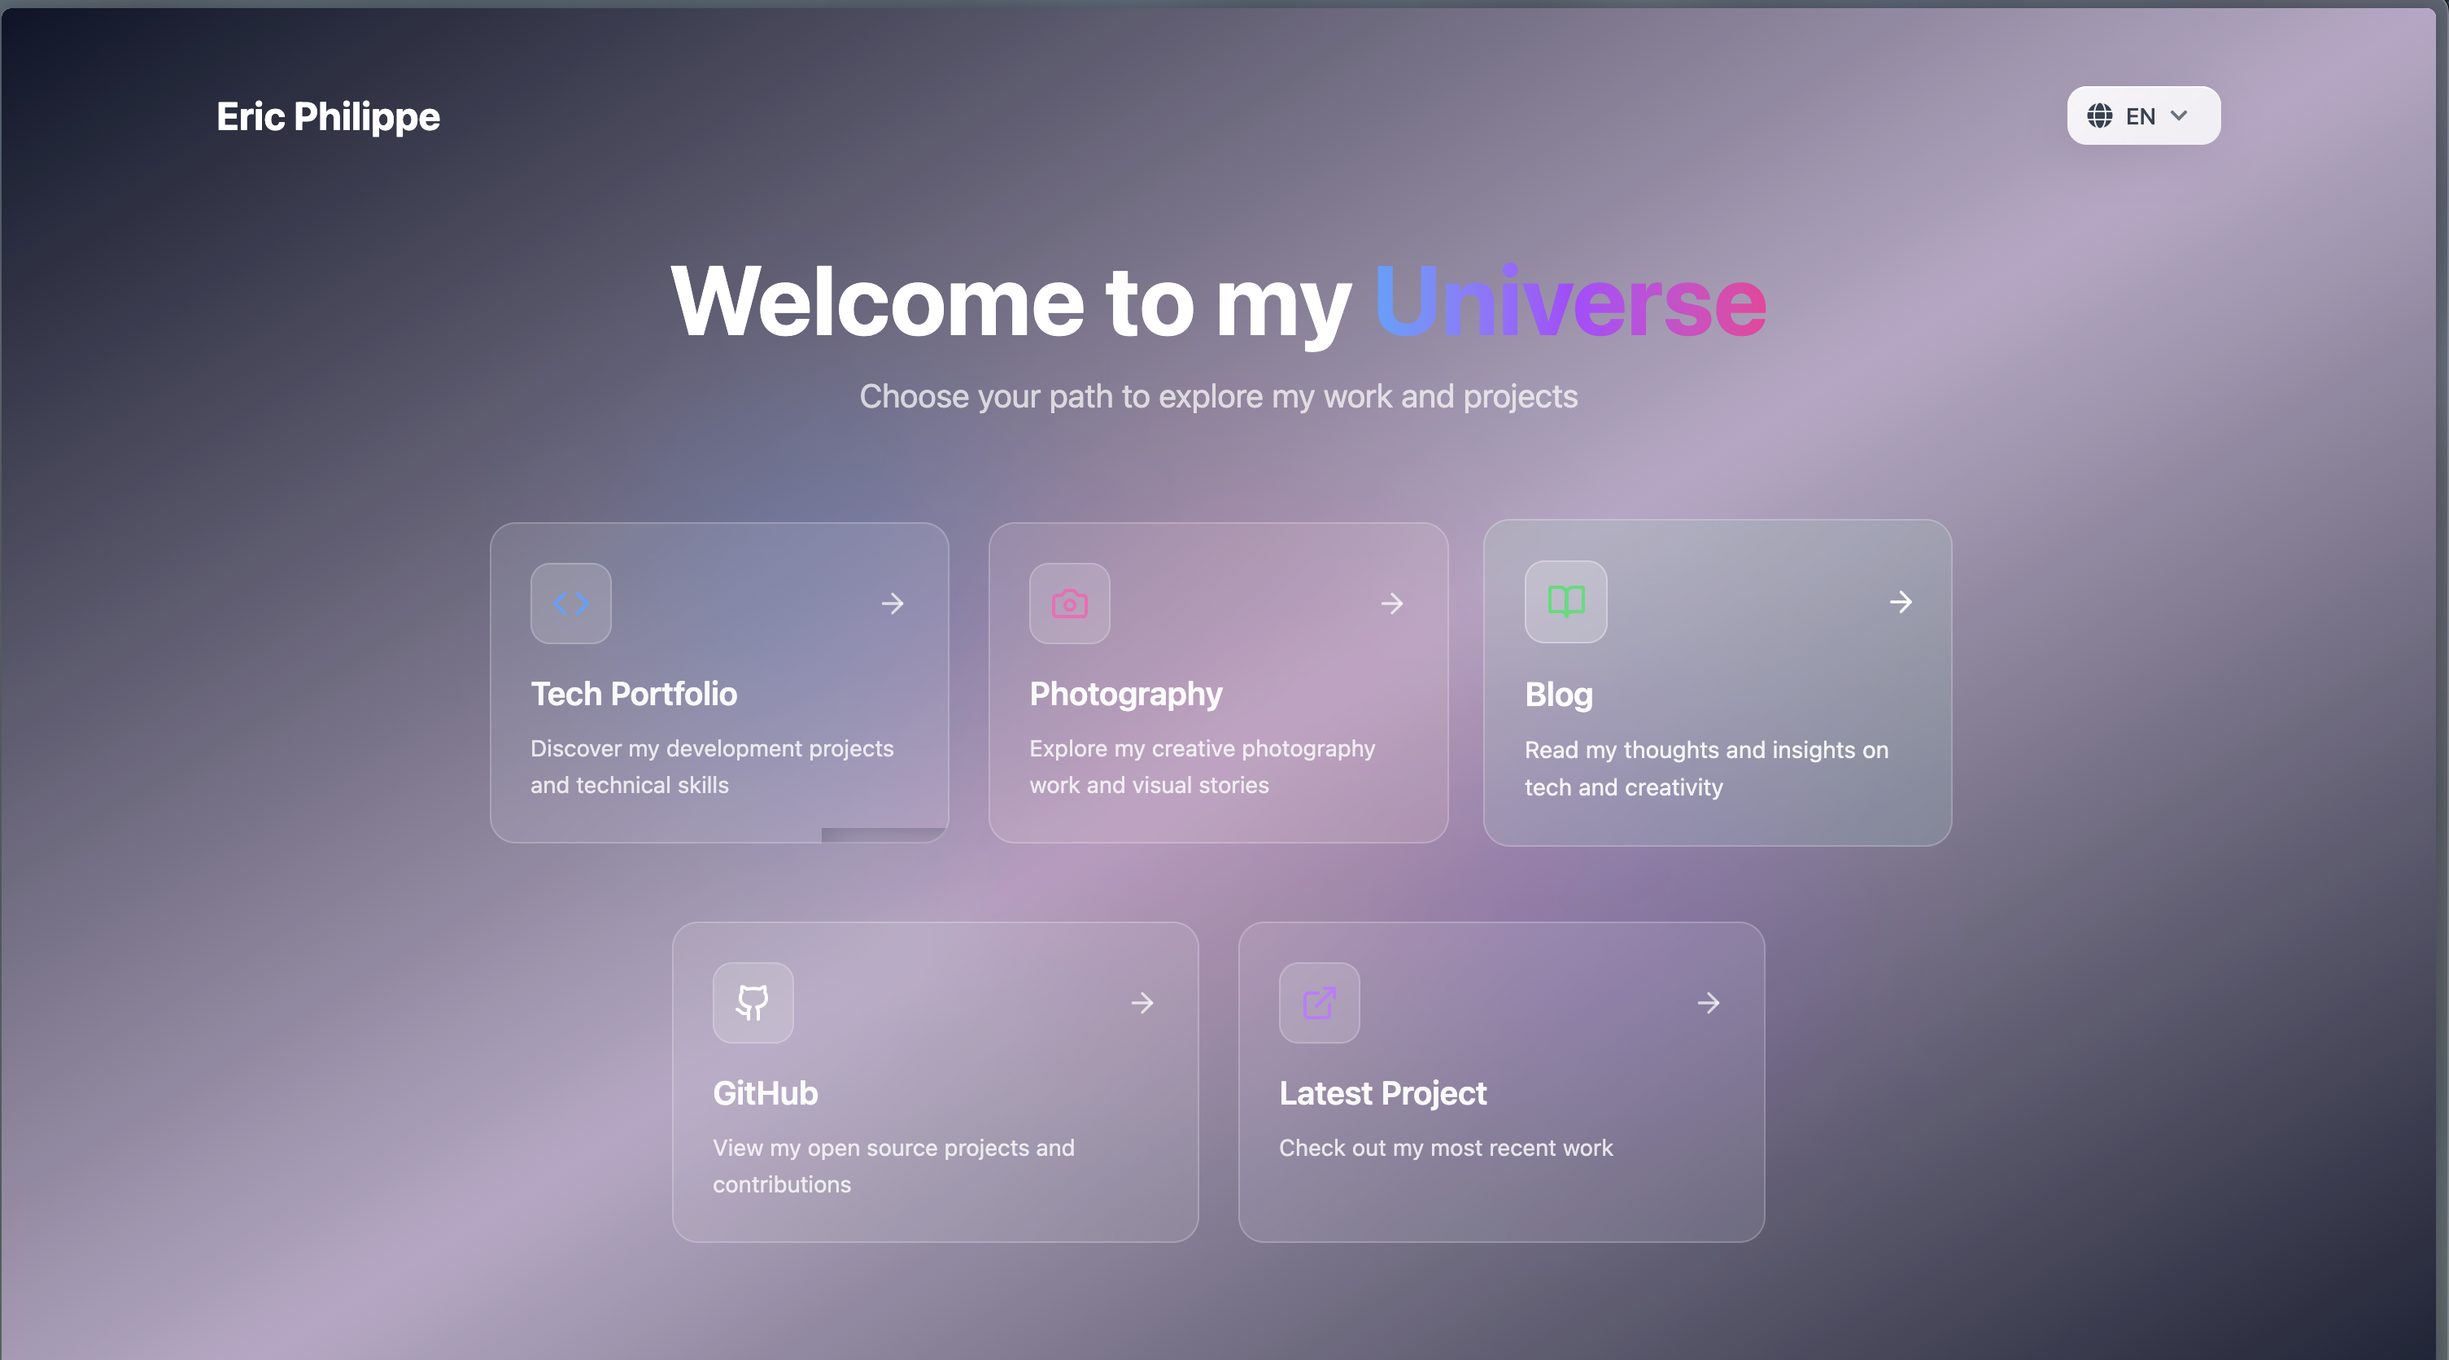
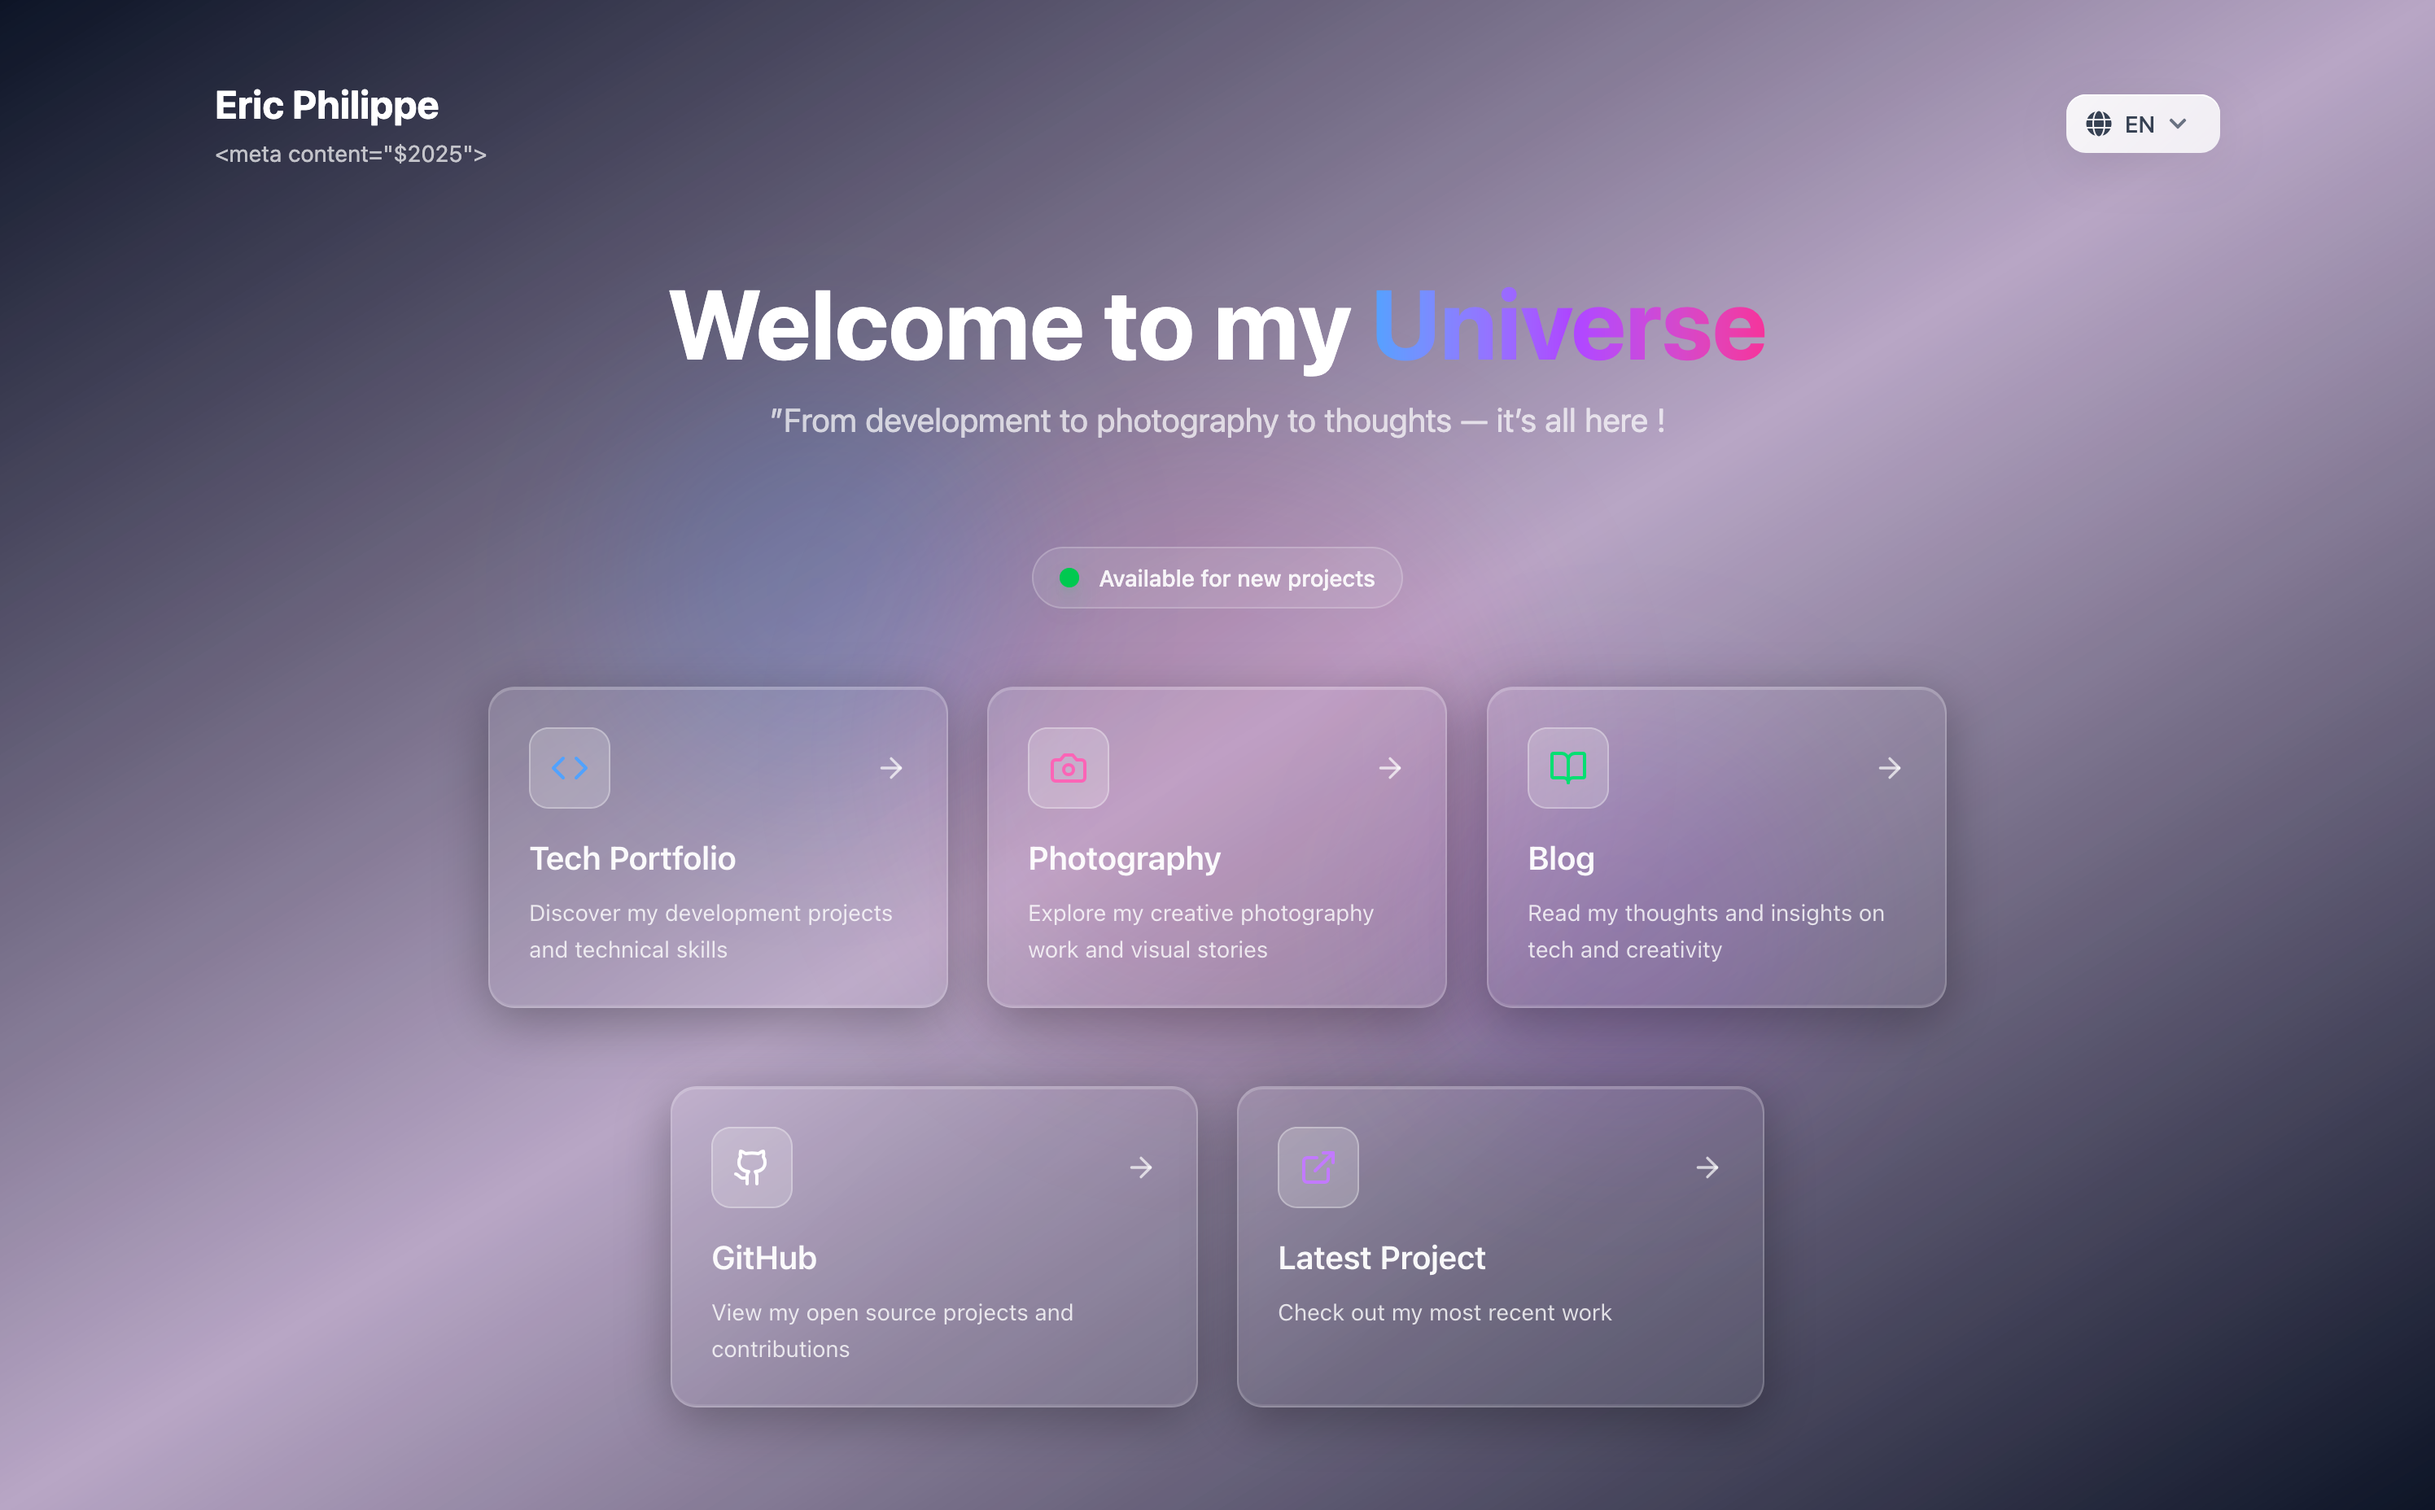
Update Doc

diff --git a/next.config.js b/next.config.js
@@ -8,7 +8,7 @@ import createMDX from "@next/mdx";
 
 /** @type {import("next").NextConfig} */
 const config = {
-  // Add any route here that should exclude the huge .next/cache directory
+  // Any route here that should exclude the huge .next/cache directory
   outputFileTracingExcludes: {
     "/[locale]/tech/[slug]": ["./.next/cache/**/*"],
     "/[locale]/blog/[slug]": ["./.next/cache/**/*"],
@@ -53,18 +53,6 @@ const config = {
       {
         protocol: "https",
         hostname: "upload.wikimedia.org",
-        port: "",
-        pathname: "/**",
-      },
-      {
-        protocol: "https",
-        hostname: "live.staticflickr.com",
-        port: "",
-        pathname: "/**",
-      },
-      {
-        protocol: "https",
-        hostname: "images.unsplash.com",
         port: "",
         pathname: "/**",
       },

diff --git a/README.md b/README.md
@@ -1,0 +1,56 @@
+<div style="display: flex; align-items: center;">
+    <img src="./img/icon.png" style="width: 50px; height: 50px; margin-right: 10px;">
+    <h1>Eric Philippe - Dev & Photo Portfolio | Blog</h1>
+</div>
+
+This is my personal portfolio and blog, showcasing my work in web development and photography. The site is built with Next.js, leveraging its powerful features for a seamless user experience.
+
+[Check out my portfolio](https://ericphilippe.com)
+
+![Portfolio Screenshot](./img/hero.png)
+
+## Table of Contents
+
+- [About the Project](#about-the-project)
+- [Technologies](#technologies)
+- [Continuous Integration](#continuous-integration)
+- [Technical guides](#technical-guides)
+- [Author](#author)
+
+## About the Project
+
+This project is a complete rewrite of my [previous portfolio](https://github.com/Eric-Philippe/PortfolioArchive/tree/main) which was built with React Vite. The new version uses Next.js for better performance and a better SEO.
+
+This website was designed to be content driven, allowing me to easily update my projects and blog posts without needing to modify the codebase. The content is managed through a combination of Markdown files (`.mdx`) allowing me to write rich text content with images, code snippets, and more.
+
+The previous one came with another project, [Julia MarkdownJoy](https://github.com/Eric-Philippe/JuliaMarkdownJoy), which was a Markdown converter made with Julia, with the same approach as what MDX already does. My previous portfolio went with its own sub-project, including this one- [SnapFileThing](https://github.com/Eric-Philippe/SnapFileThing). An easy way for me to host my documents, photos, projects screenshots.
+
+> Before SnapFileThing, I've first started a POC written in Rust for serving all the content of the site and hosting the files, but I quickly realized that Next.js already provides a great solution for this. So I decided to stick with Next.js and use its built-in features for serving static content, also improving the performance and SEO of the site.
+
+## Technologies
+
+| Technology | Description                                               | Version |
+| ---------- | --------------------------------------------------------- | ------- |
+| Stack      | T3 Stack: Next.js, TypeScript, Tailwind CSS, and more     |         |
+| Next.js    | React framework for building server-rendered applications | 15.2.3  |
+| TypeScript | Typed superset of JavaScript                              | 5.8.3   |
+| React      | JavaScript library for building user interfaces           | 19.0.0  |
+| Bun        | JavaScript runtime for fast builds and development        | 1.2.18  |
+
+## Continuous Integration
+
+Making this project with Next.js was a way to leverage the power of Vercel's platform for continuous integration and deployment. The project is hosted on Vercel, which provides automatic deployments on every push to the main branch, ensuring that the latest changes are always live.
+
+## Technical guides
+
+- All the texts are traduced in French and English, using the `next-i18next` package for internationalization, check the `messages/` directory for the translations.
+- The `content/` directory contains all the Markdown files, and constants for the projects and blog posts (tags, categories, etc.).
+- - All the URLs that are in the website are in the `URLs.ts` file.
+- The `lib/` directory contains the utility functions and components used throughout the site, as well as the mdx components for fetching and rendering the Markdown content.
+- - Some common utils methods are in the `lib/utils.ts` and the mailer is in the `lib/mailer.ts` file.
+- The `components/` directory contains the React components used in the site, including the layout, header, footer, and other reusable components.
+- The `app/` directory contains the Next.js app directory structure, including the pages, API routes, and other application-specific code.
+
+## Author
+
+[Eric Philippe](https://ericphilippe.com) - Web Developer & Photographer
